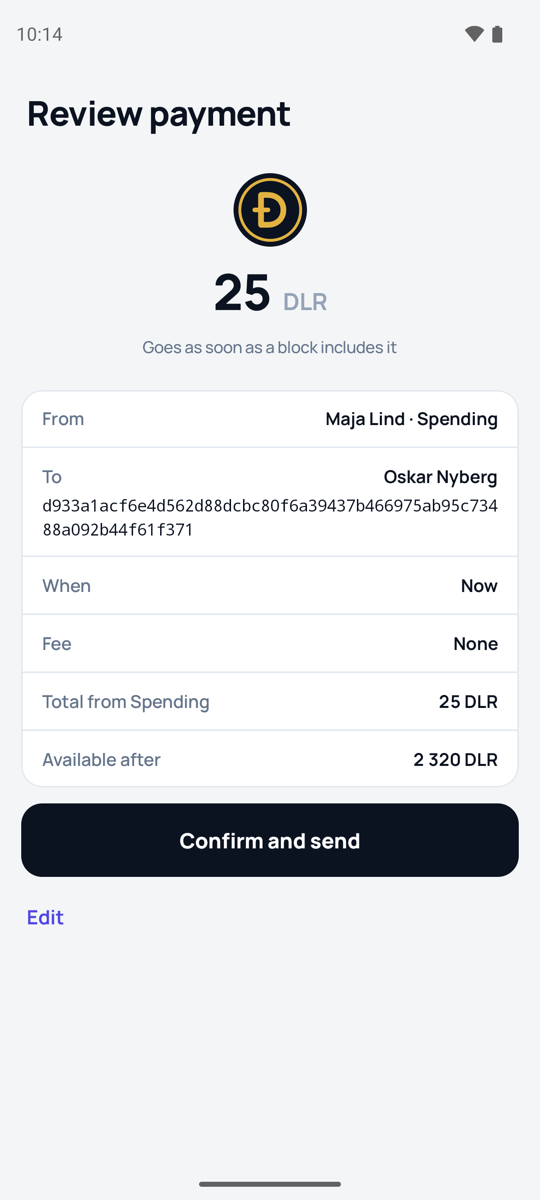
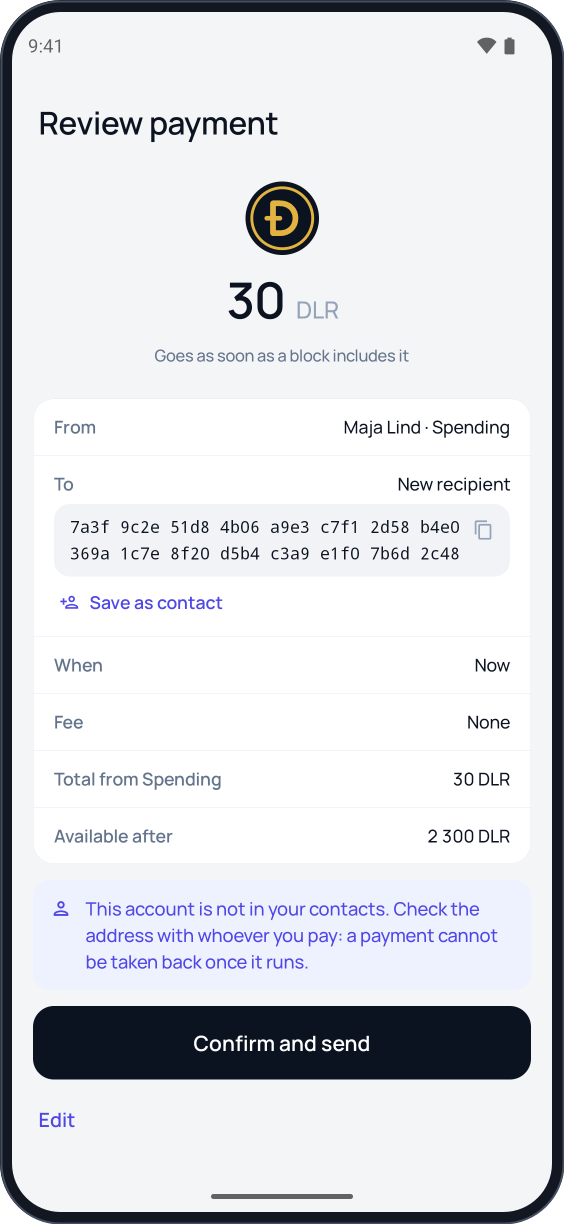
README pictures of the new look, in a phone frame
scripts/FrameScreenshot.java puts a screenshot in a plain phone frame:
rounded screen corners, a dark bezel with a lighter edge, a transparent
outside. The README shows them in two rows rather than a table, which
GitHub draws with cell borders.

diff --git a/scripts/FrameScreenshot.java b/scripts/FrameScreenshot.java
@@ -1,0 +1,61 @@
+// Puts a phone screenshot in a plain phone frame for the README: the screen
+// with rounded corners in a dark bezel with a lighter edge, so it reads on
+// light and dark pages alike, on a transparent background, at half size.
+//
+//   java scripts/FrameScreenshot.java <screenshot.png> <framed.png>
+
+import java.awt.AlphaComposite;
+import java.awt.BasicStroke;
+import java.awt.Color;
+import java.awt.Graphics2D;
+import java.awt.Image;
+import java.awt.RenderingHints;
+import java.awt.geom.RoundRectangle2D;
+import java.awt.image.BufferedImage;
+import java.io.File;
+import javax.imageio.ImageIO;
+
+public class FrameScreenshot {
+    public static void main(String[] args) throws Exception {
+        if (args.length != 2) {
+            System.err.println("usage: java scripts/FrameScreenshot.java <screenshot.png> <framed.png>");
+            System.exit(1);
+        }
+        BufferedImage shot = ImageIO.read(new File(args[0]));
+        int screenWidth = Math.round(shot.getWidth() * 0.5f);
+        int screenHeight = Math.round(shot.getHeight() * 0.5f);
+        int bezel = 12;
+        int width = screenWidth + 2 * bezel;
+        int height = screenHeight + 2 * bezel;
+        // Phone screens round their corners by about a tenth of their width.
+        float screenRadius = screenWidth * 0.09f;
+        float outerRadius = screenRadius + bezel;
+
+        // The screen at half size, averaged rather than sampled, with its corners rounded by an antialiased mask.
+        BufferedImage screen = new BufferedImage(screenWidth, screenHeight, BufferedImage.TYPE_INT_ARGB);
+        Graphics2D s = smooth(screen.createGraphics());
+        s.setColor(Color.WHITE);
+        s.fill(new RoundRectangle2D.Float(0, 0, screenWidth, screenHeight, 2 * screenRadius, 2 * screenRadius));
+        s.setComposite(AlphaComposite.SrcIn);
+        s.drawImage(shot.getScaledInstance(screenWidth, screenHeight, Image.SCALE_AREA_AVERAGING), 0, 0, null);
+        s.dispose();
+
+        BufferedImage framed = new BufferedImage(width, height, BufferedImage.TYPE_INT_ARGB);
+        Graphics2D g = smooth(framed.createGraphics());
+        g.setColor(new Color(18, 23, 33));
+        g.fill(new RoundRectangle2D.Float(0, 0, width, height, 2 * outerRadius, 2 * outerRadius));
+        g.setColor(new Color(69, 79, 97));
+        g.setStroke(new BasicStroke(2f));
+        g.draw(new RoundRectangle2D.Float(1, 1, width - 2, height - 2, 2 * (outerRadius - 1), 2 * (outerRadius - 1)));
+        g.drawImage(screen, bezel, bezel, null);
+        g.dispose();
+        ImageIO.write(framed, "png", new File(args[1]));
+    }
+
+    private static Graphics2D smooth(Graphics2D g) {
+        g.setRenderingHint(RenderingHints.KEY_ANTIALIASING, RenderingHints.VALUE_ANTIALIAS_ON);
+        g.setRenderingHint(RenderingHints.KEY_RENDERING, RenderingHints.VALUE_RENDER_QUALITY);
+        g.setRenderingHint(RenderingHints.KEY_INTERPOLATION, RenderingHints.VALUE_INTERPOLATION_BICUBIC);
+        return g;
+    }
+}

diff --git a/README.md b/README.md
@@ -3,23 +3,21 @@
 Ting ID is a wallet and identity app for Android, for the
 [Ting](https://github.com/ting-organization/ting) network.
 
-<table>
-  <tr>
-    <td align="center"><img src="docs/screenshots/welcome.png" width="190" alt="Welcome: Spending, Savings and Recovery, with Create and Restore an identity"><br>Welcome</td>
-    <td align="center"><img src="docs/screenshots/wallet.png" width="190" alt="Wallet: Daler in Spending and Savings, and the activity"><br>Wallet</td>
-    <td align="center"><img src="docs/screenshots/send.png" width="190" alt="Send: an amount to a contact"><br>Send</td>
-    <td align="center"><img src="docs/screenshots/review.png" width="190" alt="Review payment before it goes"><br>Review</td>
-  </tr>
-  <tr>
-    <td align="center"><img src="docs/screenshots/receive.png" width="190" alt="Receive: a pay link as a QR code"><br>Receive</td>
-    <td align="center"><img src="docs/screenshots/transaction.png" width="190" alt="A confirmed payment and what it did"><br>Transaction</td>
-    <td align="center"><img src="docs/screenshots/identity.png" width="190" alt="Identity: devices, guardians and accounts"><br>Identity</td>
-    <td align="center"><img src="docs/screenshots/people.png" width="190" alt="People: the users on the phone and contacts"><br>People</td>
-  </tr>
-</table>
+<p align="center">
+  <img src="docs/screenshots/welcome.png" width="190" alt="Welcome: Spending, Savings and Recovery, with Create and Restore an identity">
+  <img src="docs/screenshots/wallet.png" width="190" alt="Wallet: the Daler total, Spending and Savings, and the activity">
+  <img src="docs/screenshots/send.png" width="190" alt="Send: an amount to a contact">
+  <img src="docs/screenshots/review.png" width="190" alt="Review: a payment to an account that is not a contact, its address in full">
+</p>
+<p align="center">
+  <img src="docs/screenshots/receive.png" width="190" alt="Receive: a pay link as a QR code">
+  <img src="docs/screenshots/transaction.png" width="190" alt="A confirmed payment and what it did">
+  <img src="docs/screenshots/identity.png" width="190" alt="Identity: devices, guardians and accounts">
+  <img src="docs/screenshots/people.png" width="190" alt="People: the user on this phone and contacts">
+</p>
 
 The pictures are of a [development chain](#a-development-chain) with test
-identities.
+identities, framed by `java scripts/FrameScreenshot.java <screenshot> <framed.png>`.
 
 ## Download
 
